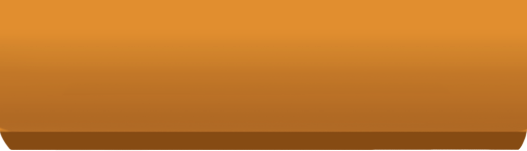
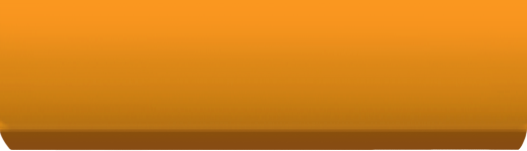
fix footer

Changed region(s): [[0.0, 0.0, 1.0, 0.0795], [0.0, 0.8212, 0.0304, 0.8742]]

diff --git a/src/scripts/components/modal/clan/ClanTabsWindow.ts b/src/scripts/components/modal/clan/ClanTabsWindow.ts
@@ -1,4 +1,4 @@
-import { shortNum } from '../../../general/basic';
+import { shortNum, shortTime } from '../../../general/basic';
 import Modal from '../../../scenes/Modal/Modal';
 import LogoManager from '../../Utils/LogoManager';
 const KEY: string = '1491f4c9d53dfa6c50d0c4a375f9ba76';
@@ -34,6 +34,7 @@ export default class ClanTabsWindow {
   private input: HTMLInputElement;
   private enterKey: Phaser.Input.Keyboard.Key;
   private inputText: Phaser.GameObjects.Text;
+  private cooldownTimer: Phaser.GameObjects.Text;
 
   constructor(scene: Modal) {
     this.scene = scene;
@@ -86,7 +87,7 @@ export default class ClanTabsWindow {
   }
 
   private createBg(): void {
-    this.bg = this.scene.add.tileSprite(this.x, this.y, this.width, this.height, 'white-pixel').setTint(0xFA8F1F);
+    this.bg = this.scene.add.tileSprite(this.x, this.y, this.width, this.height, 'white-pixel').setTint(0xFF9700);
     this.modalElements.push(this.bg);
   }
 
@@ -503,6 +504,7 @@ export default class ClanTabsWindow {
 
     let text: string = this.scene.state.lang.improveClan;
 
+    let padding: number = -40;
     if (this.scene.state.clan.main.cooldown > 0) {
       const estimateCost: number = Math.round(this.scene.state.clan.main.cooldown / 60) * 2;
       const price: number = estimateCost > 1000 ? 1000 : estimateCost;
@@ -523,9 +525,20 @@ export default class ClanTabsWindow {
       };
       
       text = this.scene.state.lang.speedUpImprovment;
+      this.cooldownTimer = this.scene.add.text(this.x, this.y - 70, `${this.scene.state.lang.left} ${shortTime(this.scene.state.clan.main.cooldown, this.scene.state.lang)}`, this.headerTextStyle).setOrigin(0.5).setFontSize(25);
+      
+      this.scene.events.on(Phaser.Scenes.Events.UPDATE, () => {
+        if (this.cooldownTimer?.active) {
+          const text: string = `${this.scene.state.lang.left} ${shortTime(this.scene.state.clan.main.cooldown, this.scene.state.lang)}`;
+          if (text !== this.cooldownTimer.text) {
+            this.cooldownTimer.setText(text);
+          }
+        }
+      });
+      padding += 30
     }
 
-    const btn3 = this.scene.bigButton('green', 'left', -40, text, right3);
+    const btn3 = this.scene.bigButton('green', 'left', padding, text, right3);
     this.scene.clickModalBtn(btn3, callBack);
   }
 }

diff --git a/src/scripts/components/modal/ProfileWindow.ts b/src/scripts/components/modal/ProfileWindow.ts
@@ -453,7 +453,7 @@ export default class ProfileWindow {
       y: this.topBg.getBounds().bottom - 40,
     };
     const width: number = 527;
-    this.bottomBg = this.scene.add.tileSprite(pos.x, pos.y, width, this.bottomHeight, 'white-pixel').setTint(0xFA8F1F).setDepth(-1).setOrigin(0.5, 0);
+    this.bottomBg = this.scene.add.tileSprite(pos.x, pos.y, width, this.bottomHeight, 'white-pixel').setTint(0xFF9700).setDepth(-1).setOrigin(0.5, 0);
     this.scene.add.nineslice(pos.x, pos.y + 40, width - 40, this.bottomHeight , 'clan-window-search-plate-ns', 5).setOrigin(0.5, 0).setDepth(1);
   }
 

diff --git a/src/scripts/components/modal/SettingsWindow.ts b/src/scripts/components/modal/SettingsWindow.ts
@@ -60,7 +60,7 @@ export default class SettingsWindow {
     })
   }
   private createBg(): void {
-    this.bg = this.scene.add.tileSprite(this.x, this.y, this.width, this.height, 'white-pixel').setTint(0xFA8F1F);
+    this.bg = this.scene.add.tileSprite(this.x, this.y, this.width, this.height, 'white-pixel').setTint(0xFF9700);
   }
 
   private createHeader(): void {

diff --git a/src/scripts/components/modal/clan/ClanBankWindow.ts b/src/scripts/components/modal/clan/ClanBankWindow.ts
@@ -99,7 +99,7 @@ export default class ClanBankWindow {
   }
 
   private createBg(): void {
-    this.bg = this.scene.add.tileSprite(this.x, this.y, this.width, this.height, 'white-pixel').setTint(0xFA8F1F);
+    this.bg = this.scene.add.tileSprite(this.x, this.y, this.width, this.height, 'white-pixel').setTint(0xFF9700);
     this.modalElements.push(this.bg);
   }
 

diff --git a/src/scripts/components/modal/clan/ClanWindow.ts b/src/scripts/components/modal/clan/ClanWindow.ts
@@ -57,7 +57,7 @@ export default class ClanWindow {
   }
 
   private createBg(): void {
-    this.bg = this.scene.add.tileSprite(this.x, this.y, this.width, this.height, 'white-pixel').setTint(0xFA8F1F);
+    this.bg = this.scene.add.tileSprite(this.x, this.y, this.width, this.height, 'white-pixel').setTint(0xFF9700);
     this.modalElements.push(this.bg);
   }
 
